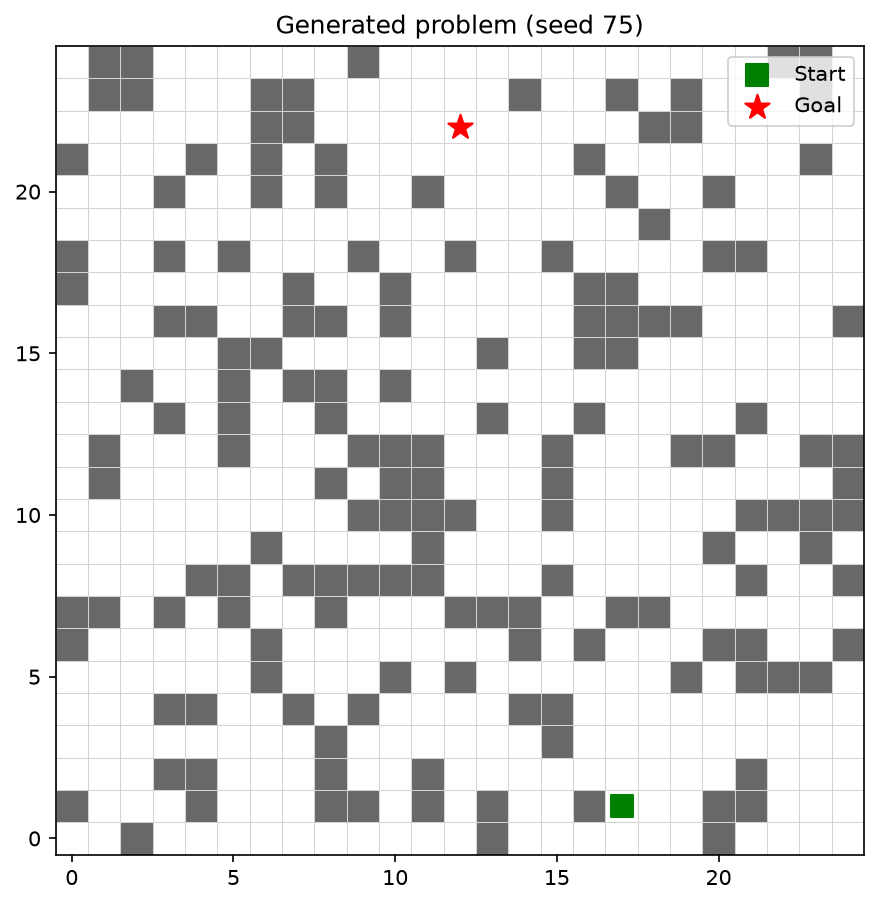
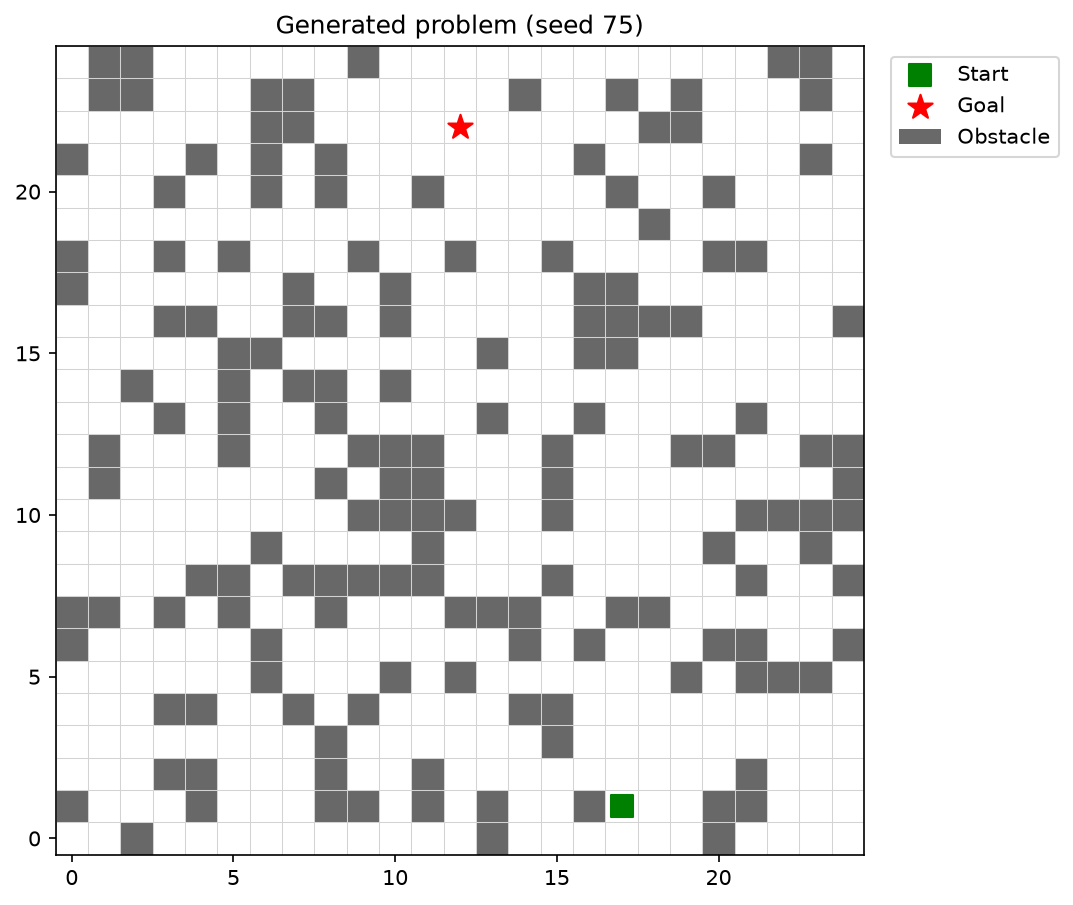
Move legend outside plot so obstacles are not hidden

diff --git a/pso_pathplanning.py b/pso_pathplanning.py
@@ -3,11 +3,12 @@ Swarm-Based Path Planning with Obstacles (PSO)
 Name: Muhammad Zain ul Abidin | Roll No: 075
 """
 import os
-import matplotlib.pyplot as plt
 import random
 from collections import deque
 
+import matplotlib.pyplot as plt
 import numpy as np
+from matplotlib.patches import Patch
 
 # ---------------- Problem configuration ----------------
 SEED = 75            # roll number 075
@@ -56,6 +57,8 @@ def generate_problem(seed=SEED, n=GRID_SIZE, density=OBSTACLE_DENSITY):
             continue
         if bfs_reachable(grid, start, goal):
             return grid, start, goal, attempts
+
+
 def plot_grid(grid, start, goal, path=None, title="Generated problem (seed 75)",
               save_as=None):
     """Draw obstacles, start, goal and (optionally) a path. Points are (x, y)."""
@@ -74,11 +77,14 @@ def plot_grid(grid, start, goal, path=None, title="Generated problem (seed 75)",
     ax.scatter(*goal, c="red", s=150, marker="*", label="Goal", zorder=3)
 
     ax.set_title(title)
-    ax.legend(loc="upper right")
+    handles, labels = ax.get_legend_handles_labels()
+    handles.append(Patch(facecolor="dimgray", label="Obstacle"))
+    ax.legend(handles=handles, loc="upper left", bbox_to_anchor=(1.02, 1))
     if save_as:
         os.makedirs(os.path.dirname(save_as), exist_ok=True)
         fig.savefig(save_as, dpi=150, bbox_inches="tight")
     plt.show()
+
 
 if __name__ == "__main__":
     grid, start, goal, attempts = generate_problem()
